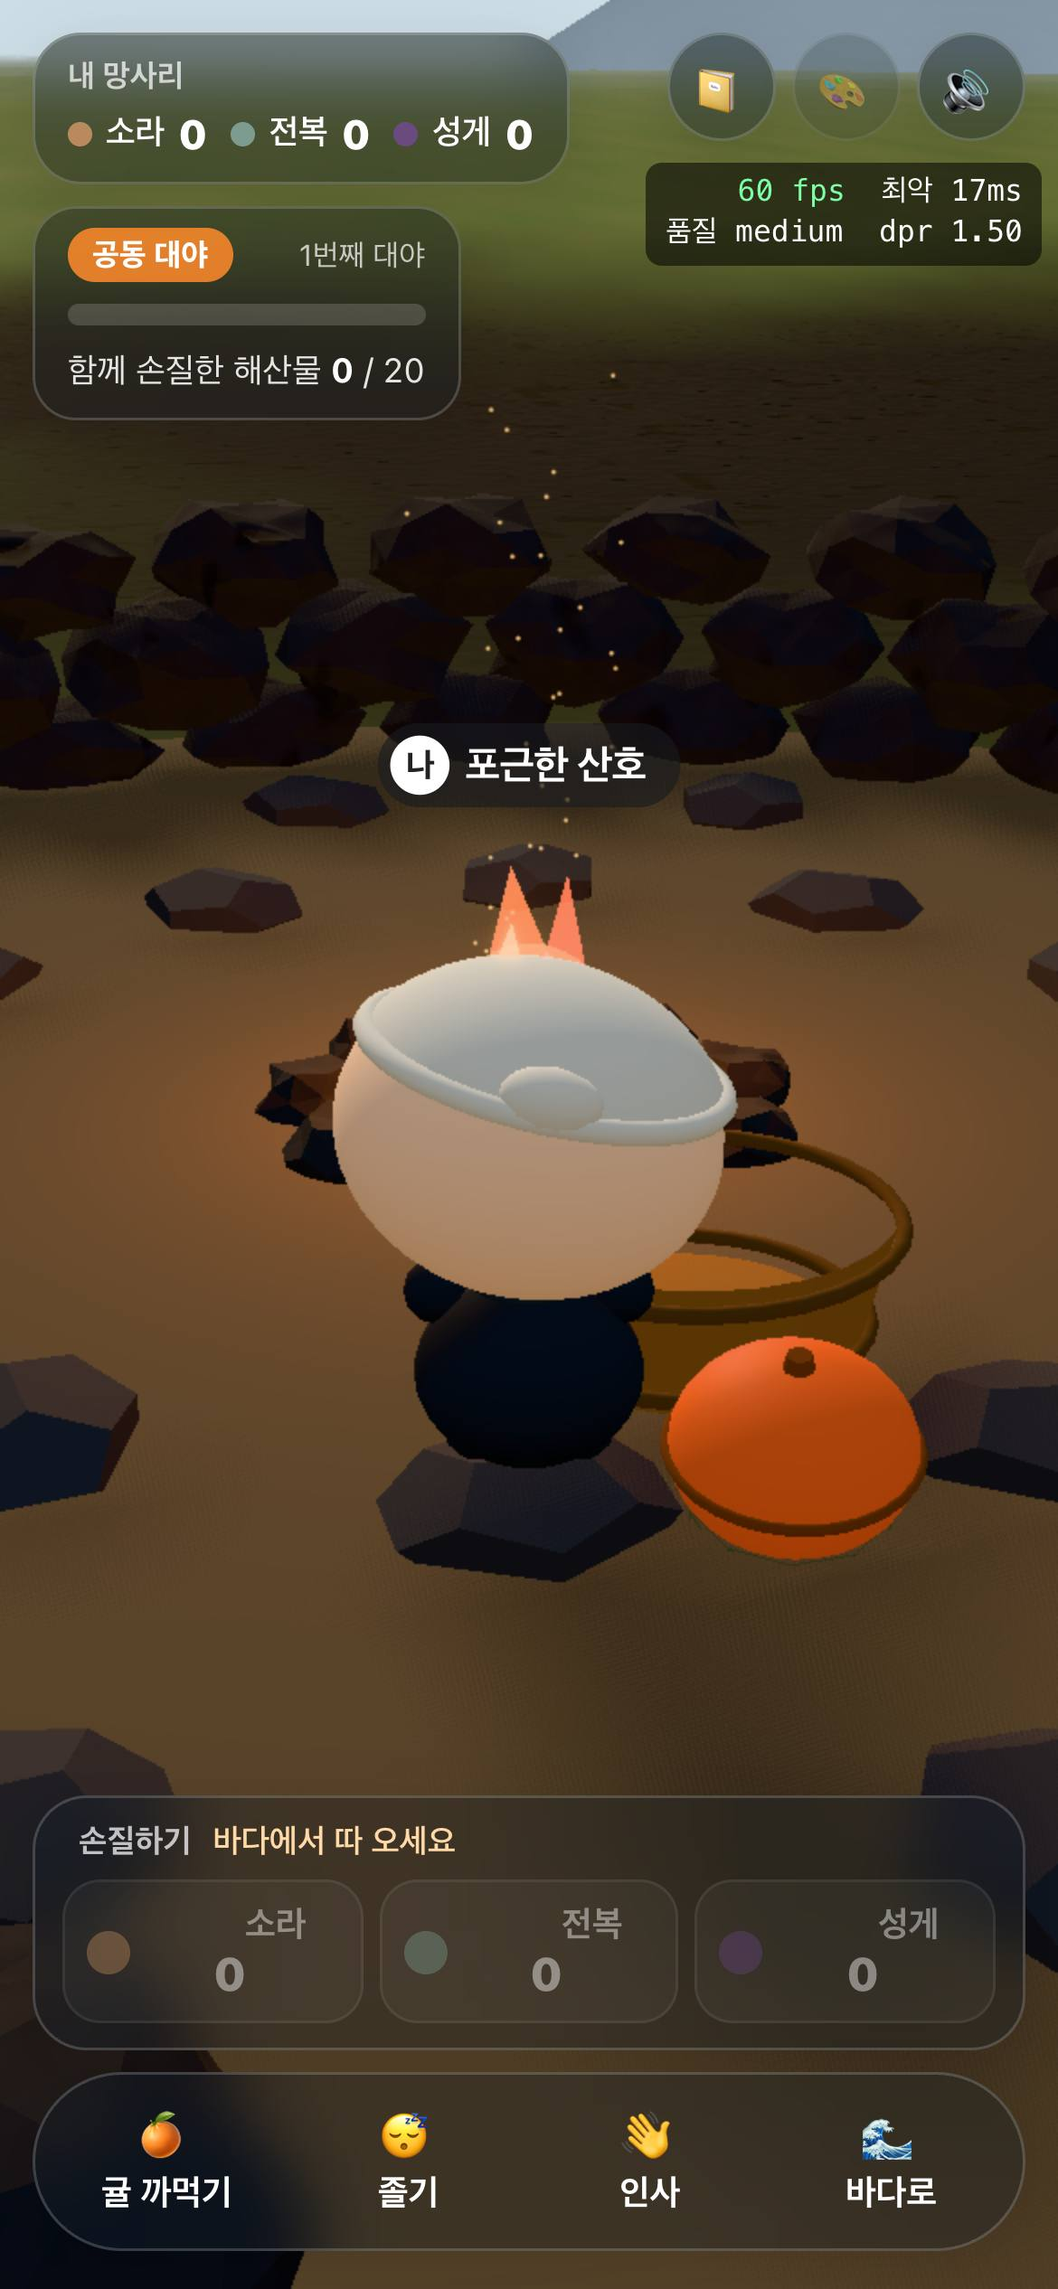
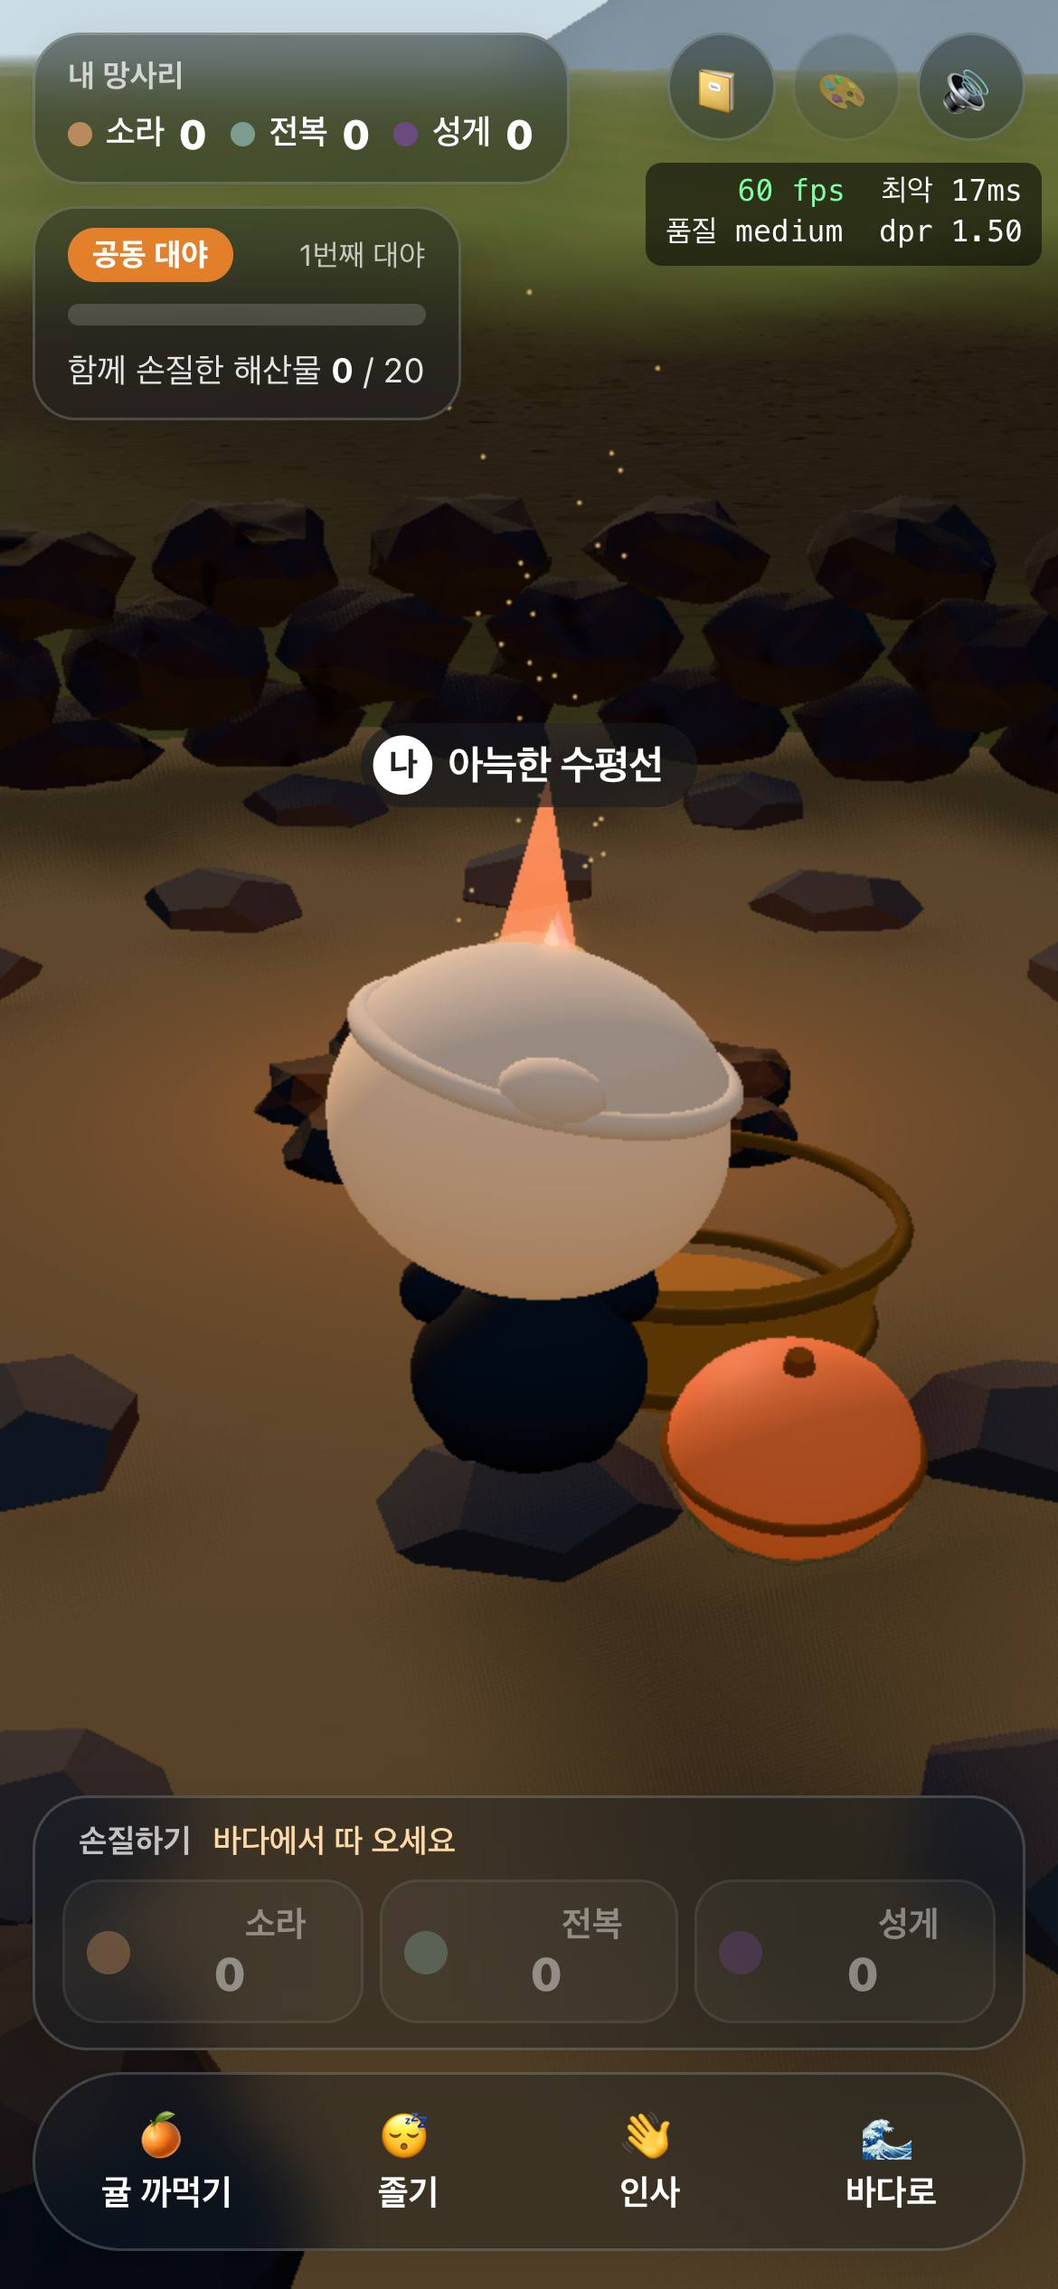
feat: 휴대폰 두 손가락 줌, 잠수 버튼 톡 = 계속 잠수(다시 톡 = 올라가기), 잠수 중 숨 게이지 위로

diff --git a/frontend/src/ui/Hud.tsx b/frontend/src/ui/Hud.tsx
@@ -9,7 +9,7 @@ import { JournalButton, JournalOverlay } from './JournalCard'
 import { Joystick } from './Joystick'
 import { startAct } from '../haenyeo/acts'
 import { stopFloat, toggleFloat } from '../player/float'
-import { input } from '../player/input'
+import { input, setDiveLatch, useDiveLatch } from '../player/input'
 import { player } from '../player/runtime'
 import { travel } from '../player/zone'
 import { useBubbles } from '../store/bubbleStore'
@@ -32,7 +32,7 @@ function HintPill() {
     <div className={`pill hint ${show ? '' : 'hidden'}`}>
       {touchUI ? (
         <>
-          왼쪽 아래를 끌어 헤엄치고, <b>🤿</b>를 누르고 있으면 잠수해요 · 화면을 끌어 둘러봐요
+          왼쪽 아래를 끌어 헤엄치고, <b>🤿</b>를 톡 누르면 잠수해요 · 화면을 끌어 둘러보고, 두 손가락으로 벌려 가까이
         </>
       ) : (
         <>
@@ -196,12 +196,37 @@ function FloatCalm() {
 
 const CALM_AFTER_MS = 4500
 
+/** 이보다 짧게 누르면 '톡' (계속 잠수) */
+const TAP_MS = 280
+
 /** 하단 가운데: 행동 바 (레퍼런스 산사) */
 function ActionBar() {
   const diving = useGame((s) => s.diving)
   const floating = useFloat((s) => s.active)
-  const holdDive = (v: boolean) => () => {
-    input.diveButton = v
+  const latched = useDiveLatch((s) => s.on)
+  // 톡 누르면 계속 잠수(다시 톡 → 올라가기), 누르고 있다 떼면 바로 올라감
+  const press = useRef({ at: 0, release: false })
+  const diveDown = () => {
+    if (useDiveLatch.getState().on) {
+      setDiveLatch(false)
+      press.current.release = true
+      return
+    }
+    press.current = { at: performance.now(), release: false }
+    input.diveButton = true
+  }
+  const diveUp = () => {
+    if (press.current.release) {
+      press.current.release = false
+      return
+    }
+    if (!input.diveButton) return
+    input.diveButton = false
+    const tap = performance.now() - press.current.at < TAP_MS
+    if (tap && useGame.getState().diving && player.pose.state !== 'ascending') setDiveLatch(true)
+  }
+  const diveCancel = () => {
+    input.diveButton = false
   }
   // F: 둥둥 눕기/일어나기
   useEffect(() => {
@@ -217,15 +242,16 @@ function ActionBar() {
     <div className="glass actionbar">
       <button
         className={`action ${diving ? 'active' : ''}`}
-        onPointerDown={holdDive(true)}
-        onPointerUp={holdDive(false)}
-        onPointerLeave={holdDive(false)}
-        onPointerCancel={holdDive(false)}
+        title="톡 누르면 계속 잠수, 다시 누르면 올라가요 · 누르고 있다 떼도 돼요"
+        onPointerDown={diveDown}
+        onPointerUp={diveUp}
+        onPointerLeave={diveUp}
+        onPointerCancel={diveCancel}
         onContextMenu={(e) => e.preventDefault()}
       >
-        <span className="icon">🤿</span>
-        <span>{diving ? '잠수 중' : '잠수'}</span>
-        <kbd>Space 누르기</kbd>
+        <span className="icon">{latched ? '⬆' : '🤿'}</span>
+        <span>{latched ? '올라가기' : diving ? '잠수 중' : '잠수'}</span>
+        <kbd>{latched ? '다시 톡' : 'Space 누르기'}</kbd>
       </button>
       <button className="action" onClick={() => (input.waveRequested = true)}>
         <span className="icon">👋</span>

diff --git a/frontend/src/player/FollowCamera.tsx b/frontend/src/player/FollowCamera.tsx
@@ -44,11 +44,36 @@ export function FollowCamera() {
     const el = gl.domElement
     el.style.touchAction = 'none'
     const unblock = blockNativeTouch(el)
+    // 손가락(포인터)들: 하나면 둘러보기, 둘이면 벌리고 좁혀 줌 (휴대폰)
+    const pts = new Map<number, { x: number; y: number }>()
+    let pinch = 0
+    const spread = () => {
+      const [a, b] = [...pts.values()]
+      return Math.hypot(a.x - b.x, a.y - b.y)
+    }
     const down = (e: PointerEvent) => {
-      drag.current = { x: e.clientX, y: e.clientY, id: e.pointerId }
+      pts.set(e.pointerId, { x: e.clientX, y: e.clientY })
       el.setPointerCapture(e.pointerId)
+      if (pts.size === 2) {
+        // 두 번째 손가락: 둘러보기를 멈추고 줌 시작
+        drag.current = null
+        pinch = spread()
+      } else if (pts.size === 1) {
+        drag.current = { x: e.clientX, y: e.clientY, id: e.pointerId }
+      }
     }
     const move = (e: PointerEvent) => {
+      const pt = pts.get(e.pointerId)
+      if (pt) {
+        pt.x = e.clientX
+        pt.y = e.clientY
+      }
+      if (pts.size === 2 && pt) {
+        const d = spread()
+        if (pinch > 10 && d > 10) zoomBy(pinch / d)
+        pinch = d
+        return
+      }
       const d = drag.current
       if (!d || d.id !== e.pointerId) return
       if (useFloat.getState().active) {
@@ -67,7 +92,22 @@ export function FollowCamera() {
       cameraRig.lastDragAt = performance.now()
     }
     const up = (e: PointerEvent) => {
+      pts.delete(e.pointerId)
       if (drag.current?.id === e.pointerId) drag.current = null
+      // 줌하다 한 손가락만 남으면 그 손가락으로 이어서 둘러보기 (튀지 않게 지금 자리부터)
+      if (pts.size === 1 && !drag.current) {
+        const [[id, p]] = [...pts.entries()]
+        drag.current = { x: p.x, y: p.y, id }
+      }
+    }
+    /** 줌: k > 1 이면 멀어짐 */
+    const zoomBy = (k: number) => {
+      if (useFloat.getState().active) {
+        floatCam.fov = clamp(floatCam.fov * k, 36, 78)
+        floatCam.lastInput = performance.now()
+        return
+      }
+      cameraRig.distance = clamp(cameraRig.distance * k, 3, 10)
     }
     const wheel = (e: WheelEvent) => {
       if (useFloat.getState().active) {

diff --git a/frontend/src/player/input.ts b/frontend/src/player/input.ts
@@ -1,4 +1,15 @@
-// 키보드·화면 버튼(·5단계의 조이스틱) 입력을 한곳에 모은다.
+import { create } from 'zustand'
+
+// 키보드·화면 버튼·터치 조이스틱 입력을 한곳에 모은다.
+
+/**
+ * 잠수 버튼을 한 번 톡 누르면 계속 잠수 (다시 누르면 올라감). 휴대폰에서 엄지 하나로 조이스틱만 쥐어도 되게.
+ * 누르고 있다가 떼는 방식(Space 와 같음)도 그대로 됨. 숨이 다하거나 수면에 오르면 풀림.
+ */
+export const useDiveLatch = create<{ on: boolean }>(() => ({ on: false }))
+export const setDiveLatch = (on: boolean) => {
+  if (useDiveLatch.getState().on !== on) useDiveLatch.setState({ on })
+}
 
 /** 지금 눌려 있는 키 (event.code) */
 export const keys = new Set<string>()
@@ -43,7 +54,7 @@ export function readMove(): { x: number; y: number } {
 }
 
 export function isDiveHeld() {
-  return keys.has('Space') || input.diveButton
+  return keys.has('Space') || input.diveButton || useDiveLatch.getState().on
 }
 
 export function consumeWave() {
@@ -69,6 +80,8 @@ export function attachKeyboard() {
   const clear = () => {
     keys.clear()
     input.diveButton = false
+    input.stick.x = 0
+    input.stick.y = 0
   }
   window.addEventListener('keydown', down)
   window.addEventListener('keyup', up)

diff --git a/frontend/src/index.css b/frontend/src/index.css
@@ -1203,11 +1203,8 @@ body.float-calm .tag-stack {
 }
 /* 안내·알림 문구는 왼쪽 위 카드들 아래 */
 .hud.touch .top-center {
-  top: calc(150px + env(safe-area-inset-top));
+  top: calc(160px + env(safe-area-inset-top));
   width: calc(100% - 24px);
-}
-body.today-open .hud.touch .top-center {
-  top: calc(178px + env(safe-area-inset-top));
 }
 .hud.touch.in-bulteok .top-center {
   top: calc(172px + env(safe-area-inset-top));
@@ -1219,6 +1216,17 @@ body.today-open .hud.touch .top-center {
 }
 .hud.touch .bottom-center {
   bottom: calc(14px + env(safe-area-inset-bottom));
+}
+/* 바다: 아래쪽은 조이스틱·버튼 자리라 숨 게이지는 위쪽 (망사리·오늘의 바다 밑) */
+.hud.touch:not(.in-bulteok) .bottom-center {
+  bottom: auto;
+  top: calc(122px + env(safe-area-inset-top));
+}
+body.today-open .hud.touch:not(.in-bulteok) .bottom-center {
+  top: calc(176px + env(safe-area-inset-top));
+}
+body.today-open .hud.touch .top-center {
+  top: calc(214px + env(safe-area-inset-top));
 }
 /* 오른쪽 아래 세로 행동 버튼 (잠수가 맨 아래, 엄지 가까이) */
 .bottom-right {

diff --git a/frontend/src/player/LocalPlayer.tsx b/frontend/src/player/LocalPlayer.tsx
@@ -24,7 +24,7 @@ import { waveHeight } from '../world/sea/waves'
 import { collect, findHarvestable, seafood } from '../world/sea/seafood/seafoodState'
 import { onActEvent } from './actEvents'
 import { FLOAT_UP, floatState, stopFloat } from './float'
-import { attachKeyboard, consumeWave, isDiveHeld, readMove } from './input'
+import { attachKeyboard, consumeWave, isDiveHeld, readMove, setDiveLatch } from './input'
 import { cameraRig, fx, player } from './runtime'
 
 const tmp = new Vector3()
@@ -169,6 +169,7 @@ export function LocalPlayer() {
       if (p.breath <= 0 && !p.forcedAscend) {
         p.forcedAscend = true
         p.diveLock = true
+        setDiveLatch(false)
         if (pose.state === 'harvesting') {
           p.harvestItemId = -1
           pose.heldItem = null
@@ -346,6 +347,7 @@ function arriveSurface(t: number) {
   const p = player
   const dived = t - p.diveStartedAt
   p.forcedAscend = false
+  setDiveLatch(false)
   p.tewak.attached = true
   useGame.getState().setDiving(false)
   fx.splashes.push({ pos: p.pos.clone(), power: 1.2 })

diff --git a/docs/progress.md b/docs/progress.md
@@ -50,7 +50,7 @@
 - **실제 시간 바다**: 한국 시간을 따라 새벽·낮·노을·밤 (하늘 그라데이션, 해·달·별, 빛 색·방향, 물빛, 물속 안개·빛줄기). 밤엔 수면에 달빛 길, 물속에 푸른 플랑크톤이 가물거리고 헤엄치면 지나간 자리에 빛이 흩어짐. 시간대 사이는 부드럽게 섞이고, 고정 시각을 바꾸면 몇 초에 걸쳐 그 사이 시간을 지나감. 개발용: `?time=dawn|day|sunset|night`, `?hour=21.5`, 콘솔 `__sumbi.setTime('night')` / `setTime(null)`
 - **둥둥** (☁ 버튼 / F, 바다 수면에서만): 테왁을 배에 안고 누워 하늘 보기. 파도 따라 흔들리며 아주 느리게 떠내려가고, 가끔 눈 감기·하품·테왁 고쳐 안기·발끝 까딱. 카메라는 수면 가까이에서 하늘을 올려다보고(끌기·휠로 둘러보기, 멈추면 기본 구도로), 몇 초 뒤 UI가 사라져 하늘만 + "일어나기"만 은은하게. 하늘은 실제 시간: 낮 구름·갈매기(끼룩), 노을 주황→보라·구름 아랫면 물듦, 밤 별 2,400개·은하수·달·가끔 별똥별("별똥별이 떨어졌어요"), 새벽엔 별이 하나씩 사라짐. 귀가 물에 잠긴 소리. 이동 키나 일어나기로 몸을 뒤집어 복귀. 다른 사람에겐 누운 해녀 + 가끔 ☁/✨. 일지에 "하늘을 N분 바라봤어요"·"별똥별을 봤어요". 구름은 평소 하늘에도 있음
 - **하늘·바다 v2**: 하늘은 산란 흉내 그라데이션·해 둘레 빛·수평선 안개, 크기·높이가 다른 뭉게구름(해 쪽 밝고 아랫면 그늘, 은빛 가장자리), 밤엔 등급·색이 다른 별 4,800개(밝은 별은 작은 빛무리)·먼지띠가 있는 은하수·실제 날짜 위상의 달과 달무리, 새벽엔 수평선 별부터 사라지고 동쪽이 분홍·하늘색. 바다는 잔물결 노멀맵 여러 겹·프레넬 하늘 반사(하늘과 같은 식)·햇빛 반짝임·노을빛 길·달빛 길, 해안 가까이 옥빛 → 먼바다 짙은 파랑, 해안 포말·밀려갔다 빠지는 물결, 먼 흰 파도. 해안은 구멍 숭숭 현무암, 물에 닿는 띠는 젖어서 어둡고 반짝임, 먼 산은 푸르스름하게 뿌옇게. 물속은 깊을수록 빨강부터 빠지는 색, 떠다니는 입자, 모래 물결 무늬, 올려다보면 수면 너머 하늘이 일렁임. 다른 해녀·테왁도 내 화면의 같은 파도 높이에, 수면 해녀 둘레 동그란 물결. 톤 매핑(Neutral) + 은은한 블룸(모닥불·해·달)
-- **휴대폰 조작** (터치 화면 자동 감지, `?touch=1|0` 으로 강제): 왼쪽 아래 어디든 엄지를 대면 그 자리에 조이스틱(끌어 헤엄, 물속에서도), 오른쪽 아래 세로 버튼(맨 아래 큰 🤿 잠수는 누르고 있기, 둥둥·인사·불턱), 나머지 화면을 끌어 둘러보기 — 손가락 두 개 동시 가능. 망사리 밑에 오늘의 바다(접힌 채 시작)·불턱에선 공동 대야, 물질 마치기는 📔 아이콘, 키 안내 숨김·터치용 안내 문구. 가로 화면은 안내 문구를 맨 위 가운데로. 게임 화면에서 끌기·두 손가락은 페이지 스크롤·확대로 넘어가지 않음
+- **휴대폰 조작** (터치 화면 자동 감지, `?touch=1|0` 으로 강제): 왼쪽 아래 어디든 엄지를 대면 그 자리에 조이스틱(끌어 헤엄, 물속에서도), 오른쪽 아래 세로 버튼(맨 아래 큰 🤿 잠수: **톡 누르면 계속 잠수 → "⬆ 올라가기"로 바뀌고 다시 톡 하면 올라감**, 누르고 있다 떼는 방식도 그대로 · 숨이 다하거나 수면에 오르면 풀림, 둥둥·인사·불턱), 나머지 화면을 끌어 둘러보기, **두 손가락으로 벌리고 좁혀 줌**(둥둥에선 하늘 시야) — 손가락 두 개 동시 가능. 잠수 중 숨 게이지는 위쪽(오늘의 바다 밑). 망사리 밑에 오늘의 바다(접힌 채 시작)·불턱에선 공동 대야, 물질 마치기는 📔 아이콘, 키 안내 숨김·터치용 안내 문구. 가로 화면은 안내 문구를 맨 위 가운데로. 게임 화면에서 끌기·두 손가락은 페이지 스크롤·확대로 넘어가지 않음
 - **휴대폰 개발 확인**: `./dev.sh` 가 프론트를 `--host` 로 열고 내부 IP 를 허용 origin 에 더한 뒤 휴대폰 주소를 찍어 줌. `?debug=1` 이면 오른쪽에 fps·가장 긴 프레임·품질 단계·dpr (개발 서버에서만)
 - **품질 단계** (`lib/quality.ts`): 높음·보통·낮음 — 해상도 배율·구름 수·잔물결 겹 수·블룸(낮음은 끔)·그림자 크기. 기기로 짐작(휴대폰은 보통, 저사양 휴대폰은 낮음), 4초 평균 40fps 아래가 두 번 이어지면 한 단계 낮춤. 개발용: `?quality=high|medium|low`, `?moon=0.5`(달 위상), 콘솔 `__sumbi.quality.getState().set('low')`
 - **물질 일지** (상단 "📔 물질 마치기"): 이번 물질 기록(머문 시간·숨비소리·딴 것·손질한 것·함께한 해녀) + 내 해녀를 앞에서 찍은 지금 시간대 풍경으로 1080×1350 카드. "오늘 바다에 23분 머물렀어요" 같은 문장과 시간대별 마무리 한 줄. 이미지로 저장(휴대폰은 공유 시트, 그 밖엔 내려받기), 계속 물질하기 / 바다 떠나기(입장 화면, 다시 들어오면 새 물질). 기록은 브라우저에만 (`sumbi.journal`, 최근 60개, 탭을 닫아도 남김)
@@ -68,7 +68,7 @@
 - 하강 시작 순간 카메라가 수면을 통과하는 0.1초 정도 어색한 프레임
 - 빌드 시 청크 500KB 초과 경고 (three.js). 5단계에서 코드 분할 검토
 - oxlint `react(immutability)` 경고 다수 (R3F에서 three 객체를 직접 바꾸는 패턴). 의도된 것
-- 휴대폰 조작은 Chrome 터치 흉내로 확인. 실제 iPhone(카카오톡 인앱 브라우저)에서 둘러보기가 안 되던 문제는 iOS 스크롤 막기로 고쳤지만 기기에서 다시 확인 필요. 핀치 줌(카메라 거리)은 아직 없음
+- 휴대폰 조작은 Chrome 터치 흉내로 확인. 실제 iPhone(카카오톡 인앱 브라우저)에서 둘러보기가 안 되던 문제는 iOS 스크롤 막기로 고쳤지만 기기에서 다시 확인 필요.
 - 다른 해녀 LOD 없음 (50명이면 메시 약 1,150개) → 사람이 많을 때 성능 확인 필요
 - 부하 테스트(가짜 클라이언트 50~200명) 아직 안 함. 전체 상한 500은 추정치
 - Docker 구성 없음 (이 컴퓨터에서 Docker 데몬이 꺼져 있어 실행 스크립트 `dev.sh`로 대체) → 5단계 배포 때
@@ -163,3 +163,4 @@
 | 2026-11-04 | 휴대폰 개발 확인용 내부 IP origin 은 **`dev.sh` 에서만** 더함 (`application.yml` 기본값은 그대로 localhost) | 배포는 `SUMBI_ALLOWED_ORIGINS` 를 직접 넣으므로 내부 IP 가 운영 설정에 섞이지 않음 |
 | 2026-11-04 | 휴대폰 조작은 **왼쪽 아래 떠 있는 조이스틱 + 오른쪽 아래 세로 버튼**, 판단은 `(pointer: coarse)` | 엄지 두 개로 헤엄·잠수를 함께. 가운데 아래를 비워 해녀가 가려지지 않음. 화면 폭이 아니라 입력 방식으로 나눠야 태블릿·가로 화면도 맞음 |
 | 2026-11-04 | iOS 에서 끌기가 끊기지 않게 게임 화면의 `touchmove` 를 막음 (`touchstart` 는 안 막음, 꾸미기 시트·일지·볼륨 슬라이더는 예외) | WebKit 은 끌기를 스크롤로 가져가면 pointercancel. touchstart 를 막으면 탭 → click 이 없어져 불턱 자리 누르기가 안 됨 |
+| 2026-11-04 | 잠수 버튼은 **톡 = 계속 잠수(다시 톡 = 올라가기) + 누르고 있기 = 떼면 올라감** 둘 다 (Space 키는 누르고 있기 그대로) | 휴대폰에서 잠수 내내 한 엄지로 버튼을 누르고 다른 엄지로 조이스틱을 쥐면 힐링 게임치고 손이 바쁨. 톡 한 번이면 조이스틱 엄지 하나로 물속을 돌아다님. 누르고 있기도 남겨 익숙한 사람·PC 와 같게 |

diff --git a/docs/troubleshooting.md b/docs/troubleshooting.md
@@ -306,4 +306,6 @@
 ### 휴대폰 HUD 가 겹침
 - 데스크톱 배치(아래 가운데 행동 바 + 왼쪽 아래 카드)를 좁은 화면에 그대로 쓰면 오늘의 바다·행동 바·손질 패널이 겹침. 터치 화면은 `.hud.touch` 로 따로 배치하고, `capture-mobile.mjs` 가 보이는 HUD 상자끼리 겹치는지·화면 밖인지 검사.
 - 버튼 글자를 CSS 로 숨기면 접근 이름도 사라짐(`getByRole(name)` 실패) → `aria-label` 을 둠 (📔 물질 마치기).
+- 겹침 검사는 그 순간 보이는 것만 봄: 잠수 중에만 나오는 숨 게이지가 조이스틱·잠수 버튼과 겹쳤던 걸 놓쳤음 → 잠수 중에도 한 번 더 검사(`.breath:not(.hidden)` 포함).
+- 두 손가락 줌: 캔버스 위 손가락이 둘이면 둘러보기를 멈추고 두 손가락 거리 비율로 `cameraRig.distance`(둥둥은 `floatCam.fov`)를 곱함. 한 손가락을 떼면 남은 손가락의 지금 자리부터 둘러보기를 이어서 시점이 튀지 않게.
 
